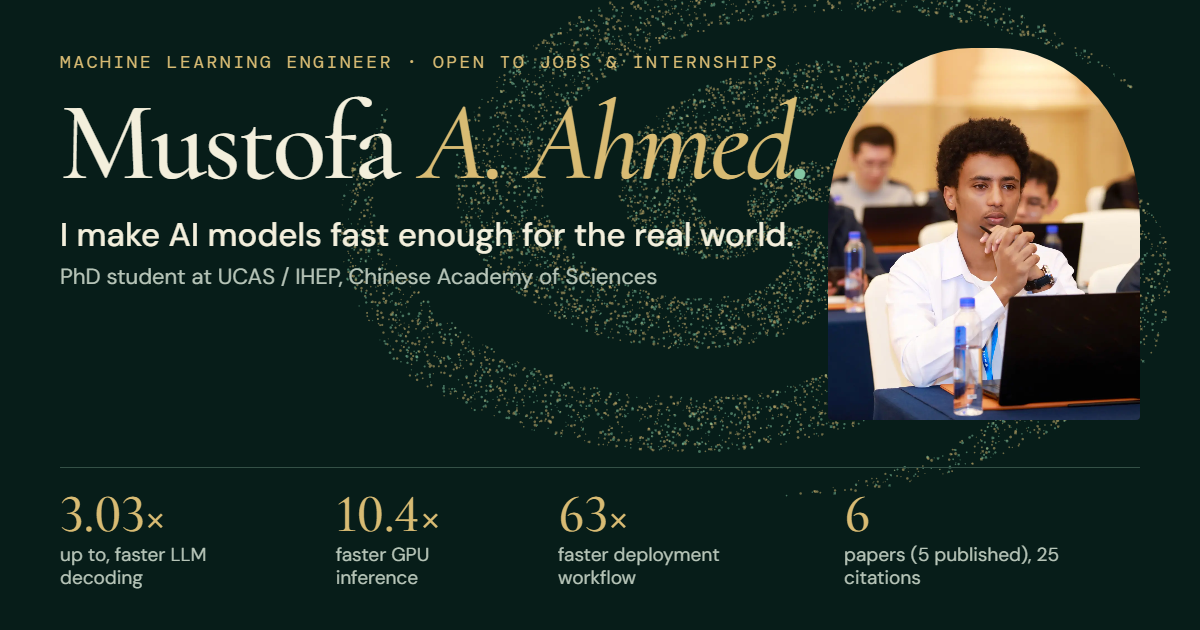
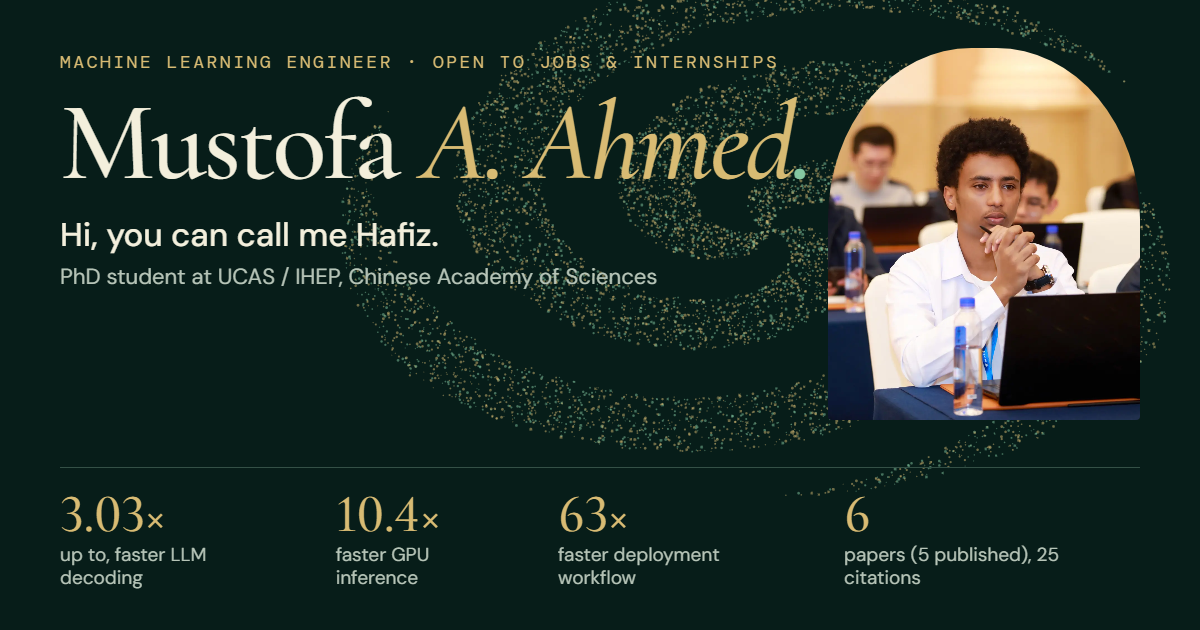
New hero greeting, resume pop-up, chip photos and copy updates
- Hero opens with "Hi, you can call me Hafiz." and a one-line description
- Short manifesto paragraph in the original serif style
- Resume buttons open an in-page viewer (English/Chinese, download, open PDF)
- Show the normal cursor over pop-ups, which sit above the custom cursor
- Intel Xeon and Xilinx Alveo photos in the AutoDeploy lab chip picker and result card
- "02 / Hiring?" label, no HSK score in the languages line
- Share card, loader words and review notes follow the new copy

Changed region(s): [[0.0617, 0.0, 0.925, 0.7238], [0.7092, 0.6635, 0.8942, 0.7841], [0.9558, 0.3619, 0.9867, 0.5127]]

diff --git a/index.html b/index.html
@@ -13,7 +13,7 @@
 <meta property="og:type" content="profile">
 <meta property="og:url" content="https://hafizabc77.github.io/">
 <meta property="og:title" content="Mustofa A. Ahmed (Hafiz): Machine Learning Engineer">
-<meta property="og:description" content="I make AI models fast enough for the real world. Up to 3.03× faster LLM decoding, 10.4× faster GPU inference, a 63× faster deployment workflow and 6 papers (5 published). Open to jobs and internships.">
+<meta property="og:description" content="Hi, you can call me Hafiz. I work on how AI models learn, scale and run fast on real hardware. Up to 3.03× faster LLM decoding, 10.4× faster GPU inference, a 63× faster deployment workflow and 6 papers (5 published). Open to jobs and internships.">
 <meta property="og:image" content="https://hafizabc77.github.io/assets/showcase/og-card.png">
 <meta property="og:image:width" content="1200">
 <meta property="og:image:height" content="630">
@@ -93,12 +93,11 @@ setTimeout(function(){if(!window.__fxReady)c.add('intro-done','fx-slow')},4000)}
       <span class="eyebrow" data-scramble data-en="Machine Learning Engineer" data-zh="机器学习工程师">Machine Learning Engineer</span>
       <span class="opportunity" data-en="Open to jobs &amp; internships" data-zh="求职 · 实习均可">Open to jobs &amp; internships</span>
     </p>
-    <h1 data-split>Mustofa<br><i>A. Ahmed<b>.</b></i></h1>
-    <p class="aka" data-rise data-en="Hi, I’m Hafiz." data-zh="你好，我是 Hafiz。">Hi, I’m Hafiz.</p>
-    <p class="hero-line" data-rise data-en="I make AI models fast enough for the real world." data-zh="让 AI 模型快到能真正落地。">I make AI models fast enough for the real world.</p>
-    <p class="hero-description" data-rise data-en="I’m a PhD student at UCAS and the Institute of High Energy Physics in Beijing. Most days I’m speeding up LLM inference or getting models to run well on GPUs, FPGAs and NPUs." data-zh="我是中国科学院大学与中国科学院高能物理研究所的博士生。平时主要在加速大模型推理，让模型在 GPU、FPGA 和 NPU 上跑得又快又稳。">I’m a PhD student at UCAS and the Institute of High Energy Physics in Beijing. Most days I’m speeding up LLM inference or getting models to run well on GPUs, FPGAs and NPUs.</p>
+    <h1 data-split>Mustofa<br><i>A. Ahmed<b>.</b></i></h1>
+    <p class="hero-line" data-rise data-en="<span class=&quot;hello&quot;>Hi, you can call me <b>Hafiz</b>.</span> I work on how AI models learn, scale and run fast on real hardware." data-zh="<span class=&quot;hello&quot;>你好，叫我 <b>Hafiz</b> 就好。</span>我研究 AI 模型如何学习、如何扩展，以及如何在真实硬件上跑得飞快。"><span class="hello">Hi, you can call me <b>Hafiz</b>.</span> I work on how AI models learn, scale and run fast on real hardware.</p>
+    <p class="hero-description" data-rise data-en="PhD student at UCAS and the Institute of High Energy Physics, Beijing." data-zh="中国科学院大学与中科院高能物理研究所博士生 · 北京">PhD student at UCAS and the Institute of High Energy Physics, Beijing.</p>
     <div class="actions" data-rise>
-      <a class="button primary" data-resume data-magnetic data-cursor="PDF" href="assets/Mustofa-Ahmed-Resume-EN.pdf" target="_blank" rel="noopener"><span data-en="Get my resume ↗" data-zh="查看简历 ↗">Get my resume ↗</span></a>
+      <a class="button primary" data-resume data-magnetic data-cursor="PDF" href="assets/Mustofa-Ahmed-Resume-EN.pdf" target="_blank" rel="noopener"><span data-en="See my resume" data-zh="查看简历">See my resume</span></a>
       <a class="button" href="#projects" data-magnetic><span data-en="Explore my work" data-zh="探索我的项目">Explore my work</span></a>
     </div>
   </div>
@@ -114,10 +113,7 @@ setTimeout(function(){if(!window.__fxReady)c.add('intro-done','fx-slow')},4000)}
 <div class="wave-ticker" id="wave-ticker" aria-hidden="true"><div class="ticker-run"><span>PYTORCH ✦ vLLM ✦ TENSORRT ✦ CUDA ✦ ONNX ✦ llama.cpp ✦ hls4ml ✦ VITIS AI ✦ NEO4J ✦ BAYESIAN OPTIMIZATION ✦ UNREAL ENGINE 5 ✦ PYTORCH ✦ vLLM ✦ TENSORRT ✦ CUDA ✦ ONNX ✦ llama.cpp ✦ hls4ml ✦ VITIS AI ✦ NEO4J ✦ BAYESIAN OPTIMIZATION ✦ UNREAL ENGINE 5 ✦ </span><span>PYTORCH ✦ vLLM ✦ TENSORRT ✦ CUDA ✦ ONNX ✦ llama.cpp ✦ hls4ml ✦ VITIS AI ✦ NEO4J ✦ BAYESIAN OPTIMIZATION ✦ UNREAL ENGINE 5 ✦ PYTORCH ✦ vLLM ✦ TENSORRT ✦ CUDA ✦ ONNX ✦ llama.cpp ✦ hls4ml ✦ VITIS AI ✦ NEO4J ✦ BAYESIAN OPTIMIZATION ✦ UNREAL ENGINE 5 ✦ </span></div></div>
 
 <section class="manifesto" id="manifesto" data-shape="vortex" data-dim=".42">
-  <p class="eyebrow mf-kicker" data-en="What keeps me curious" data-zh="让我着迷的事">What keeps me curious</p>
-  <p class="mf-lead" data-words data-en="From the <i>first gradient</i> to the <i>last millisecond.</i>" data-zh="从<i>第一个梯度</i>，到<i>最后一毫秒。</i>">From the <i>first gradient</i> to the <i>last millisecond.</i></p>
-  <div class="mf-track"><i class="mf-fill" aria-hidden="true"></i><ol class="mf-stages"><li style="--i:0"><span class="mf-n">01</span><span data-en="How models learn" data-zh="模型如何学习">How models learn</span></li><li style="--i:1"><span class="mf-n">02</span><span data-en="Why architectures work" data-zh="架构为何有效">Why architectures work</span></li><li style="--i:2"><span class="mf-n">03</span><span data-en="What scale changes" data-zh="规模改变什么">What scale changes</span></li><li style="--i:3"><span class="mf-n">04</span><span data-en="How fast they run" data-zh="能跑多快">How fast they run</span></li></ol></div>
-  <p class="mf-body" data-words data-en="I want to understand the whole life of a model: how it learns, why its architecture works, what changes as it scales, and how to make it fast on a real chip. Each end explains the other. How a model was trained tells me where it can be trimmed, and the chip it runs on tells me what is worth training." data-zh="我想弄懂一个模型的完整生命：它如何学习，架构为何有效，规模变大时会发生什么，以及怎样让它在真实芯片上跑得飞快。两端总在互相解释：模型怎么训练，决定了它能从哪里精简；它要跑在什么芯片上，又决定了什么值得训练。">I want to understand the whole life of a model: how it learns, why its architecture works, what changes as it scales, and how to make it fast on a real chip. Each end explains the other. How a model was trained tells me where it can be trimmed, and the chip it runs on tells me what is worth training.</p>
+  <p data-words data-en="Some days I’m digging into how models learn and scale. Other days I’m squeezing milliseconds out of a GPU. The best days are when one helps the other." data-zh="有些日子，我在钻研模型如何学习、如何扩展；另一些日子，我在 GPU 上一毫秒一毫秒地抠性能。最好的日子，是两者互相成就的时候。">Some days I’m digging into how models learn and scale. Other days I’m squeezing milliseconds out of a GPU. The best days are when one helps the other.</p>
 </section>
 
 <!-- Scroll story: particles form each result. The numbers are also real text for screen readers and non-WebGL browsers. -->
@@ -156,7 +152,7 @@ setTimeout(function(){if(!window.__fxReady)c.add('intro-done','fx-slow')},4000)}
 </section>
 
 <section class="fit" id="fit" data-rail-en="Your role" data-rail-zh="岗位匹配" data-shape="network" data-dim=".3" data-ink=".6">
-  <p class="eyebrow" data-en="02 / Tailor this page" data-zh="02 / 定制此页面">02 / Tailor this page</p>
+  <p class="eyebrow" data-en="02 / Hiring?" data-zh="02 / 正在招聘？">02 / Hiring?</p>
   <h2 data-split data-en="What are you <i>hiring for?</i>" data-zh="你在招聘<i>什么岗位？</i>">What are you <i>hiring for?</i></h2>
   <p class="fit-note" data-reveal data-en="Pick the role you’re hiring for and I’ll point you to the work that matters most for it." data-zh="选择你正在招聘的岗位，我会为你标出最相关的经历。">Pick the role you’re hiring for and I’ll point you to the work that matters most for it.</p>
   <div class="roles" role="tablist" aria-label="Role" data-reveal>
@@ -174,7 +170,7 @@ setTimeout(function(){if(!window.__fxReady)c.add('intro-done','fx-slow')},4000)}
   <dl class="facts" data-reveal>
     <div><dt data-en="Looking for" data-zh="求职意向">Looking for</dt><dd data-en="AI / ML engineering jobs and internships" data-zh="AI / 机器学习工程方向的工作与实习">AI / ML engineering jobs and internships</dd></div>
     <div><dt data-en="Based in" data-zh="所在地">Based in</dt><dd data-en="Beijing, China" data-zh="中国 · 北京">Beijing, China</dd></div>
-    <div><dt data-en="Languages" data-zh="语言">Languages</dt><dd data-en="English, Amharic, Mandarin (HSK 4, 264/300)" data-zh="英语、阿姆哈拉语、汉语（HSK 四级，264/300）">English, Amharic, Mandarin (HSK 4, 264/300)</dd></div>
+    <div><dt data-en="Languages" data-zh="语言">Languages</dt><dd data-en="English, Amharic, Mandarin" data-zh="英语、阿姆哈拉语、汉语">English, Amharic, Mandarin</dd></div>
   </dl>
 </section>
 
@@ -293,9 +289,9 @@ setTimeout(function(){if(!window.__fxReady)c.add('intro-done','fx-slow')},4000)}
       <div class="lab-step"><span class="lab-n">1</span><div class="lab-field">
         <b data-en="Pick a chip" data-zh="选择芯片">Pick a chip</b>
         <div class="chip-pick" id="dep-targets" role="radiogroup" aria-label="Target hardware">
-          <button type="button" role="radio" aria-checked="false" data-target="cpu"><svg class="chip-ico" viewBox="0 0 40 40" aria-hidden="true"><rect x="9" y="9" width="22" height="22" rx="2"/><rect x="14" y="14" width="12" height="12"/><path d="M14 9V5M20 9V5M26 9V5M14 35v-4M20 35v-4M26 35v-4M9 14H5M9 20H5M9 26H5M35 14h-4M35 20h-4M35 26h-4"/></svg><b>CPU</b><small>Intel Xeon Gold 6248</small></button>
+          <button type="button" role="radio" aria-checked="false" data-target="cpu"><img src="assets/showcase/xeon-6248.webp" alt="" width="340" height="360"><b>CPU</b><small>Intel Xeon Gold 6248</small></button>
           <button type="button" role="radio" aria-checked="true" data-target="gpu"><img src="assets/showcase/v100.webp" alt="" width="420" height="466"><b>GPU</b><small>NVIDIA Tesla V100</small></button>
-          <button type="button" role="radio" aria-checked="false" data-target="fpga"><svg class="chip-ico" viewBox="0 0 40 40" aria-hidden="true"><rect x="7" y="7" width="26" height="26" rx="2"/><path d="M7 15h26M7 22h26M7 29h26M15 7v26M22 7v26M29 7v26"/></svg><b>FPGA</b><small>Xilinx Alveo U200</small></button>
+          <button type="button" role="radio" aria-checked="false" data-target="fpga"><img src="assets/showcase/alveo-u200.webp" alt="" width="239" height="185"><b>FPGA</b><small>Xilinx Alveo U200</small></button>
         </div>
       </div></div>
       <div class="lab-step"><span class="lab-n">2</span><div class="lab-field">
@@ -702,8 +698,8 @@ setTimeout(function(){if(!window.__fxReady)c.add('intro-done','fx-slow')},4000)}
         <li><span class="contact-label">GitHub</span><a href="https://github.com/hafizabc77" target="_blank" rel="noopener">github.com/hafizabc77 ↗</a></li>
       </ul>
       <div class="actions">
-        <a class="button primary" href="assets/Mustofa-Ahmed-Resume-EN.pdf" target="_blank" rel="noopener" data-magnetic data-cursor="PDF"><span data-en="Resume, English ↗" data-zh="英文简历 ↗">Resume, English ↗</span></a>
-        <a class="button" href="assets/Mustofa-Ahmed-Resume-ZH.pdf" target="_blank" rel="noopener" data-magnetic data-cursor="PDF"><span data-en="Resume, Chinese ↗" data-zh="中文简历 ↗">Resume, Chinese ↗</span></a>
+        <a class="button primary" href="assets/Mustofa-Ahmed-Resume-EN.pdf" target="_blank" rel="noopener" data-magnetic data-cursor="PDF"><span data-en="Resume, English" data-zh="英文简历">Resume, English</span></a>
+        <a class="button" href="assets/Mustofa-Ahmed-Resume-ZH.pdf" target="_blank" rel="noopener" data-magnetic data-cursor="PDF"><span data-en="Resume, Chinese" data-zh="中文简历">Resume, Chinese</span></a>
       </div>
     </div>
     <button type="button" class="qr-card" id="qr-card" data-tilt data-cursor="ENLARGE" aria-label="Enlarge WeChat QR code">
@@ -1060,6 +1056,16 @@ setTimeout(function(){if(!window.__fxReady)c.add('intro-done','fx-slow')},4000)}
   </article>
 </template>
 
+<dialog id="resume-dialog" aria-label="Resume">
+  <div class="rd-bar">
+    <b data-en="Resume" data-zh="简历">Resume</b>
+    <div class="seg small rd-lang" role="radiogroup" aria-label="Language"><button type="button" role="radio" aria-checked="true" data-rlang="en">English</button><button type="button" role="radio" aria-checked="false" data-rlang="zh">中文</button></div>
+    <a class="button small primary rd-download" href="assets/Mustofa-Ahmed-Resume-EN.pdf" download="Mustofa-Ahmed-Resume-EN.pdf"><span data-en="Download PDF" data-zh="下载 PDF">Download PDF</span></a>
+    <a class="text-link rd-open" href="assets/Mustofa-Ahmed-Resume-EN.pdf" target="_blank" rel="noopener"><span data-en="Open PDF ↗" data-zh="打开 PDF ↗">Open PDF ↗</span></a>
+  </div>
+  <button type="button" class="dialog-close" aria-label="Close">×</button>
+  <div class="rd-scroll"><img class="rd-page" alt="Resume of Mustofa A. Ahmed (Hafiz)" width="1700" height="2200" data-src-en="assets/resume/resume-en-1.webp" data-src-zh="assets/resume/resume-zh-1.webp"></div>
+</dialog>
 <dialog id="wechat-dialog" aria-label="WeChat">
   <button type="button" class="dialog-close" aria-label="Close">×</button>
   <span class="qr-frame"><img src="assets/showcase/wechat-qr.webp" width="543" height="544" alt="WeChat QR code for hafizabc77" loading="lazy"><i class="qr-scan" aria-hidden="true"></i></span>

diff --git a/styles.css b/styles.css
@@ -55,6 +55,10 @@ h3{font-size:clamp(20px,1.6vw,25px);font-weight:500;line-height:1.3}
 .has-cursor .cursor,.has-cursor .cursor-dot{opacity:1}
 .has-cursor,.has-cursor a,.has-cursor button,.has-cursor summary,.has-cursor input,.has-cursor canvas,.has-cursor video,.has-cursor img{cursor:none}
 .has-cursor #palette-input{cursor:text}
+/* Pop-ups sit in the browser top layer, above the custom cursor, so show the normal cursor while one is open */
+.has-cursor.dialog-open,.has-cursor.dialog-open *{cursor:auto}
+.has-cursor.dialog-open a,.has-cursor.dialog-open button,.has-cursor.dialog-open summary,.has-cursor.dialog-open [data-copy]{cursor:pointer}
+.dialog-open .cursor,.dialog-open .cursor-dot{opacity:0!important}
 .cursor{width:38px;height:38px;margin:-19px 0 0 -19px;border:1px solid var(--gold);border-radius:50%;display:grid;place-items:center;transition:width .35s var(--ease),height .35s var(--ease),margin .35s var(--ease),background .25s,border-color .25s}
 .cursor-label{font:400 10px/1 var(--mono);letter-spacing:.1em;color:var(--bg);opacity:0;transition:opacity .15s}
 .cursor-dot{width:5px;height:5px;margin:-2.5px 0 0 -2.5px;border-radius:50%;background:var(--gold)}
@@ -163,8 +167,7 @@ img.gl-on{opacity:0}
 @keyframes pulse{0%{box-shadow:0 0 0 0 rgb(132 199 162 / .6)}70%,100%{box-shadow:0 0 0 9px rgb(132 199 162 / 0)}}
 h1{font:500 clamp(68px,min(11vw,20vh),210px)/.9 var(--serif);letter-spacing:-.035em;text-shadow:0 2px 40px rgb(7 29 25 / .35)}
 h1 b{color:var(--mint);font-weight:500}
-.aka{margin-top:clamp(10px,1.5vh,20px);font-size:clamp(14px,1vw,16px);color:var(--ink);opacity:.85}
-.hero-line{margin-top:clamp(8px,1.2vh,16px);color:var(--ink);font-size:clamp(21px,2vw,32px);line-height:1.22;font-weight:500;max-width:22em}
+.hero-line{text-wrap:balance;margin-top:clamp(14px,2vh,26px);color:var(--ink);font-size:clamp(21px,2vw,32px);line-height:1.22;font-weight:500;max-width:22em}
 .hero-description{margin-top:8px;max-width:34em;font-size:clamp(15px,1.05vw,17px);line-height:1.5;color:var(--ink);opacity:.8}
 .hero .actions{margin-top:clamp(12px,2vh,26px)}
 .hero-stats{display:grid;grid-template-columns:repeat(4,auto) minmax(0,1fr);gap:10px clamp(18px,3vw,54px);align-items:end;margin-top:clamp(12px,2vh,28px);padding-top:clamp(10px,1.4vh,18px);border-top:1px solid rgb(243 239 220 / .2)}
@@ -181,25 +184,12 @@ h1 b{color:var(--mint);font-weight:500}
 .ticker-run span{font:400 clamp(13px,1.2vw,19px)/1 var(--mono);letter-spacing:.18em;color:var(--gold);white-space:nowrap;opacity:.8}
 @keyframes tickerRun{to{transform:translate3d(-50%,0,0)}}
 
-/* Manifesto: the whole life of a model, from the first gradient to the last millisecond */
-.manifesto{--p:1;padding-block:clamp(70px,12vw,170px)}
-.fx .manifesto{--p:0}
-.mf-kicker{margin-bottom:clamp(14px,2vw,26px)}
-.manifesto .mf-lead{font:400 clamp(46px,7.6vw,132px)/.98 var(--serif);letter-spacing:-.035em;color:var(--ink);max-width:12em}
-.mf-lead i{font-style:italic;color:var(--gold)}
-.mf-track{position:relative;margin:clamp(34px,5vw,72px) 0 clamp(30px,4.4vw,60px);padding-top:30px}
-.mf-track:before{content:'';position:absolute;left:0;right:0;top:5px;border-top:1px solid var(--line)}
-.mf-fill{position:absolute;left:0;right:0;top:4px;height:3px;border-radius:2px;background:linear-gradient(90deg,var(--mint),var(--gold));transform:scaleX(var(--p));transform-origin:left}
-.mf-stages{display:grid;grid-template-columns:repeat(4,minmax(0,1fr));gap:18px}
-.mf-stages li{--on:clamp(0,(var(--p) * 4 - var(--i)) * 2.2,1);position:relative;display:grid;gap:6px;opacity:calc(.32 + var(--on) * .68);font:400 clamp(15px,1.4vw,21px)/1.25 var(--sans);color:var(--ink)}
-.mf-stages li:before,.mf-stages li:after{content:'';position:absolute;left:0;top:-30px;width:11px;height:11px;border-radius:50%}
-.mf-stages li:before{border:1px solid var(--gold);background:var(--bg)}
-.mf-stages li:after{background:var(--gold);box-shadow:0 0 0 5px rgb(216 187 115 / .16);opacity:var(--on);transform:scale(calc(.4 + var(--on) * .6))}
-.mf-n{font:400 11px/1 var(--mono);letter-spacing:.14em;color:var(--gold)}
-.manifesto .mf-body{font:400 clamp(20px,2.1vw,34px)/1.45 var(--sans);letter-spacing:-.012em;color:var(--ink);max-width:33em}
-[lang=zh-CN] .manifesto .mf-lead{font-size:clamp(40px,6.2vw,104px);line-height:1.18;letter-spacing:.01em}
-[lang=zh-CN] .mf-lead i{font-style:normal}
-[lang=zh-CN] .manifesto .mf-body{font-size:clamp(18px,1.85vw,30px);line-height:1.75;letter-spacing:.02em}
+.hero-line .hello{display:block;margin-bottom:.12em}
+.hero-line b{font-weight:500;color:var(--gold)}
+/* Manifesto */
+.manifesto{padding-block:clamp(70px,13vw,190px)}
+.manifesto p{font:500 clamp(32px,5.1vw,84px)/1.12 var(--serif);letter-spacing:-.02em;color:var(--ink);max-width:21em}
+[lang=zh-CN] .manifesto p{font-family:var(--sans);font-size:clamp(26px,3.8vw,60px);line-height:1.45;font-weight:500;letter-spacing:.01em}
 
 /* Results story */
 .numbers{padding:0;height:calc(100vh * 4.4)}
@@ -821,7 +811,6 @@ img.agent-avatar{width:34px;height:34px;border-radius:50%;background:#fff;object
 /* Short laptop screens: scale the hero by height so the results stay in the first screen. */
 @media(min-width:761px) and (max-height:820px){
   .hero{padding-top:clamp(62px,9vh,80px);padding-bottom:12px}
-  .aka{margin-top:6px;font-size:13px}
   .hero-line{margin-top:4px;font-size:clamp(19px,3vh,26px)}
   .hero-description{margin-top:3px;font-size:14px}
   .button{min-height:42px;padding-block:7px}
@@ -889,7 +878,6 @@ img.agent-avatar{width:34px;height:34px;border-radius:50%;background:#fff;object
   .hero-copy{display:contents}
   .hero-tags{order:1}
   .hero h1{order:2}
-  .aka{order:3}
   .hero-media{order:4}
   .hero-line{order:5}
   .hero-description{order:6}
@@ -902,7 +890,6 @@ img.agent-avatar{width:34px;height:34px;border-radius:50%;background:#fff;object
   .hero-tags .eyebrow{font-size:11px;letter-spacing:.1em}
   .opportunity{font-size:12px;padding:3px 11px}
   h1{font-size:clamp(50px,15vw,88px)}
-  .aka{font-size:13px;margin-top:8px}
   .hero-line{font-size:21px;margin-top:6px}
   .hero-description{font-size:14.5px;line-height:1.45;margin-top:5px}
   .hero-copy .actions{display:none}
@@ -1159,13 +1146,29 @@ img.agent-avatar{width:34px;height:34px;border-radius:50%;background:#fff;object
   .chip-pick small,.lab-field .chip-pick small{display:none}
 }
 
+
+/* Chip photo in the lab result card */
+.dep-pick{position:relative;padding-right:clamp(100px,9vw,128px)}
+.pick-chip{position:absolute;right:14px;top:50%;width:clamp(72px,7vw,100px);height:clamp(72px,7vw,100px);object-fit:contain;transform:translateY(-50%);filter:drop-shadow(0 10px 16px rgb(0 0 0 / .5))}
+.chip-pick img{filter:drop-shadow(0 3px 5px rgb(0 0 0 / .45))}
+/* Resume viewer */
+#resume-dialog{width:min(94vw,900px);height:94vh;max-height:1200px;max-width:none;padding:0;overflow:hidden;background:var(--panel)}
+#resume-dialog[open]{display:flex;flex-direction:column;animation:popIn .45s var(--spring)}
+.rd-bar{display:flex;flex-wrap:wrap;align-items:center;gap:10px 16px;padding:12px 64px 12px 20px;border-bottom:1px solid var(--line)}
+.rd-bar>b{margin-right:auto;font:500 24px/1 var(--serif);color:var(--ink)}
+.rd-lang button{font-family:var(--sans)}
+.rd-open{font-size:14px}
+#resume-dialog .dialog-close{top:7px;right:10px;color:var(--ink)}
+.rd-scroll{flex:1;min-height:0;overflow:auto;padding:clamp(10px,2.4vw,28px);background:#0a231e;overscroll-behavior:contain}
+.rd-page{display:block;width:100%;max-width:820px;height:auto;aspect-ratio:1700/2200;margin:0 auto;border-radius:4px;background:#fff;box-shadow:0 18px 50px rgb(0 0 0 / .45)}
 @media(max-width:760px){
-  .mf-track{padding:0 0 0 30px}
-  .mf-track:before{left:5px;right:auto;top:0;bottom:0;border-top:0;border-left:1px solid var(--line)}
-  .mf-fill{left:4px;right:auto;top:0;bottom:0;width:3px;height:auto;background:linear-gradient(180deg,var(--mint),var(--gold));transform:scaleY(var(--p));transform-origin:top}
-  .mf-stages{grid-template-columns:minmax(0,1fr);gap:16px}
-  .mf-stages li{grid-template-columns:30px minmax(0,1fr);align-items:baseline}
-  .mf-stages li:before,.mf-stages li:after{left:-30px;top:5px}
+  #resume-dialog{inset:0;width:100%;height:100%;max-height:none;margin:0;border:0;border-radius:0}
+  .rd-bar{gap:8px 10px;padding:10px 56px 10px 14px}
+  .rd-bar>b{font-size:19px}
+  .rd-bar .button{min-height:36px;padding:6px 14px;font-size:14px}
+  .rd-scroll{padding:8px}
+  .dep-pick{padding-right:84px}
+  .pick-chip{right:10px;width:62px;height:62px}
 }
 
 /* Motion turned off, or the script failed: everything is a plain, readable page. */

diff --git a/script.js b/script.js
@@ -254,7 +254,7 @@
     const num = $('#loader-num'), label = $('#loader-text'), tokens = $$('.loader-tokens i', loader), stream = $('#loader-stream');
     const zh = currentLang() === 'zh';
     const phases = zh ? ['正在加载权重', '正在预热 GPU', '准备就绪'] : ['Loading weights', 'Warming up GPU', 'Ready'];
-    const words = zh ? ['让', 'AI 模型', '快到', '能真正', '落地。'] : ['AI models,', 'fast', 'enough for', 'the real', 'world.'];
+    const words = zh ? ['你好，', '叫我', 'Hafiz', '就', '好。'] : ['Hi,', 'you can', 'call me', 'Hafiz', '.'];
     let shown = 0;
     label.textContent = phases[0];
     const start = performance.now(), duration = 1250;
@@ -453,18 +453,6 @@
         });
       });
     });
-
-    // The manifesto's track fills from "first gradient" to "last millisecond" as you scroll.
-    const manifesto = $('.manifesto'), mLead = $('.mf-lead');
-    if (manifesto && mLead) {
-      let mTop = 0, mHeight = 1, mLast = -1;
-      measureTasks.push(() => { mTop = docTop(mLead); mHeight = mLead.offsetHeight; });
-      frameTasks.push(() => {
-        // Same pace as the headline's words, finishing just after "last millisecond" lights up.
-        const p = clamp((state.smoothY + state.vh * 0.84 - mTop) / (mHeight + state.vh * 0.46) * 0.94);
-        if (Math.abs(p - mLast) > 0.002) { mLast = p; manifesto.style.setProperty('--p', p.toFixed(3)); }
-      });
-    }
 
     const timeline = $('.timeline'), line = $('.timeline-line');
     if (timeline) {
@@ -1137,6 +1125,7 @@
   }
   function openDialog(dialog) {
     if (dialog.showModal) dialog.showModal(); else dialog.setAttribute('open', '');
+    root.classList.add('dialog-open');
     if (lenis) lenis.stop();
   }
   function wireEnlarge(scope) {
@@ -1163,12 +1152,38 @@
       const close = $('.dialog-close', dialog);
       if (close) close.addEventListener('click', () => (dialog.close ? dialog.close() : dialog.removeAttribute('open')));
       dialog.addEventListener('click', event => { if (event.target === dialog && dialog.close) dialog.close(); });
-      dialog.addEventListener('close', () => { if (lenis && !caseOpen) lenis.start(); });
+      dialog.addEventListener('close', () => {
+        if (lenis && !caseOpen) lenis.start();
+        if (!document.querySelector('dialog[open]')) root.classList.remove('dialog-open');
+      });
     });
     const wechat = $('#wechat-dialog');
     [$('#wechat-open'), $('#qr-card')].forEach(opener => {
       if (wechat && opener) opener.addEventListener('click', () => openDialog(wechat));
     });
+    // Resume links open a pop-up viewer on the page; Ctrl/Cmd/middle click still opens the PDF in a new tab.
+    const resume = $('#resume-dialog');
+    if (resume) {
+      const page = $('.rd-page', resume), download = $('.rd-download', resume), openPdf = $('.rd-open', resume), langs = $$('[data-rlang]', resume);
+      const show = lang => {
+        const code = lang === 'zh' ? 'ZH' : 'EN', file = `assets/Mustofa-Ahmed-Resume-${code}.pdf`;
+        langs.forEach(b => b.setAttribute('aria-checked', String(b.dataset.rlang === lang)));
+        page.src = page.dataset[code === 'ZH' ? 'srcZh' : 'srcEn'];
+        page.alt = code === 'ZH' ? 'Mustofa A. Ahmed (Hafiz) 的中文简历' : 'Resume of Mustofa A. Ahmed (Hafiz)';
+        download.href = file; download.setAttribute('download', `Mustofa-Ahmed-Resume-${code}.pdf`); openPdf.href = file;
+        $('.rd-scroll', resume).scrollTop = 0;
+      };
+      langs.forEach(b => b.addEventListener('click', () => show(b.dataset.rlang)));
+      window.__openResume = lang => { show(lang === 'zh' || lang === 'en' ? lang : currentLang()); openDialog(resume); };
+      document.addEventListener('click', event => {
+        const link = event.target.closest && event.target.closest('a[href*="Mustofa-Ahmed-Resume-"]');
+        if (!link || resume.contains(link) || event.button !== 0 || event.metaKey || event.ctrlKey || event.shiftKey || event.altKey) return;
+        event.preventDefault();
+        const nav = $('#nav');
+        if (nav && nav.contains(link) && nav.classList.contains('open') && $('#menu')) $('#menu').click();
+        window.__openResume(/-ZH\.pdf$/i.test(link.getAttribute('href')) ? 'zh' : 'en');
+      });
+    }
     wireEnlarge(document);
   }
 
@@ -1367,8 +1382,8 @@
     const jump = id => () => { dialog.close(); goTo(document.getElementById(id)); };
     const study = id => () => { dialog.close(); if (window.__openCase) window.__openCase(id); };
     const COMMANDS = [
-      ['Open resume (English)', '查看英文简历', 'PDF', () => { dialog.close(); window.open('assets/Mustofa-Ahmed-Resume-EN.pdf', '_blank', 'noopener'); }],
-      ['Open resume (Chinese)', '查看中文简历', 'PDF', () => { dialog.close(); window.open('assets/Mustofa-Ahmed-Resume-ZH.pdf', '_blank', 'noopener'); }],
+      ['Open resume (English)', '查看英文简历', 'PDF', () => { dialog.close(); window.__openResume('en'); }],
+      ['Open resume (Chinese)', '查看中文简历', 'PDF', () => { dialog.close(); window.__openResume('zh'); }],
       ['Copy email', '复制邮箱', 'COPY', () => { dialog.close(); copyText('hafizabc77@gmail.com'); }],
       ['Copy WeChat ID', '复制微信号', 'COPY', () => { dialog.close(); copyText('hafizabc77'); }],
       ['Go to AutoDeploy, my flagship project', '前往旗舰项目 AutoDeploy', 'GO', jump('autodeploy')],

diff --git a/labs.js b/labs.js
@@ -437,18 +437,18 @@
      ========================================================================== */
   // Rows: [label EN, label ZH, detail, latency, accuracy %, watts, AutoDeploy's own tuned setup]
   const LAB_DATA = {
-    cpu: { name: ['Intel Xeon Gold 6248', 'Intel Xeon Gold 6248'], unit: 'ms', est: false, base: 0, baseName: ['PyTorch on one thread', 'PyTorch 单线程'], rows: [
+    cpu: { name: ['Intel Xeon Gold 6248', 'Intel Xeon Gold 6248'], img: 'assets/showcase/xeon-6248.webp', unit: 'ms', est: false, base: 0, baseName: ['PyTorch on one thread', 'PyTorch 单线程'], rows: [
       ['PyTorch, one thread', 'PyTorch，单线程', 'FP32, as trained', 45.2, 94.0, 85],
       ['PyTorch, 20 threads', 'PyTorch，20 线程', 'FP32', 12.8, 94.0, 150],
       ['ONNX Runtime, tuned by AutoDeploy', 'ONNX Runtime，AutoDeploy 调优', 'fused graph, 20 threads', 8.6, 94.0, 145, true]
     ], fail: null, steps: ['s1_export', 's2_ort_session'] },
-    gpu: { name: ['NVIDIA Tesla V100', 'NVIDIA Tesla V100'], unit: 'ms', est: false, base: 0, baseName: ['the model as trained', '原始模型'], rows: [
+    gpu: { name: ['NVIDIA Tesla V100', 'NVIDIA Tesla V100'], img: 'assets/showcase/v100.webp', unit: 'ms', est: false, base: 0, baseName: ['the model as trained', '原始模型'], rows: [
       ['PyTorch, as trained', 'PyTorch，原始模型', 'FP32', 3.8, 94.0, 220],
       ['TensorRT, half precision', 'TensorRT，半精度', 'FP16', 0.82, 93.7, 200],
       ['TensorRT, 8-bit', 'TensorRT，8 位', 'INT8 post-training quantization', 0.51, 93.4, 190],
       ['AutoDeploy’s tuned setup', 'AutoDeploy 调优方案', 'FP16, searched kernels and workspace', 0.45, 93.5, 180, true]
     ], fail: ['s2_quant', 'calibration_overflow', 'ROLLBACK ckpt#0, safer calibration preset'], steps: ['s1_export', 's2_quant', 's3_compile'] },
-    fpga: { name: ['Xilinx Alveo U200', 'Xilinx Alveo U200'], unit: 'µs', est: true, base: 3, baseName: ['my best hand-tuned design', '我手工调出的最佳设计'], rows: [
+    fpga: { name: ['Xilinx Alveo U200', 'Xilinx Alveo U200'], img: 'assets/showcase/alveo-u200.webp', unit: 'µs', est: true, base: 3, baseName: ['my best hand-tuned design', '我手工调出的最佳设计'], rows: [
       ['hls4ml, 16-bit fixed point', 'hls4ml，16 位定点', 'ap_fixed<16,6>', 92, 93.0, 42],
       ['hls4ml, 8-bit fixed point', 'hls4ml，8 位定点', 'ap_fixed<8,4>', 68, 91.6, 38],
       ['Vitis AI, 8-bit', 'Vitis AI，8 位', 'INT8', 85, 92.3, 41],
@@ -549,12 +549,13 @@
     };
     const describe = () => {
       const d = LAB_DATA[target], sel = choose(), base = d.rows[d.base];
-      if (!sel) { pick.innerHTML = `<small>${esc(T('picksOn', { chip: d.name[L()] }))}</small><b class="bad">${T('none')}</b><span>${T('noneWhy')}</span>`; return; }
+      const chip = `<img class="pick-chip" src="${d.img}" alt="">`;
+      if (!sel) { pick.innerHTML = chip + `<small>${esc(T('picksOn', { chip: d.name[L()] }))}</small><b class="bad">${T('none')}</b><span>${T('noneWhy')}</span>`; return; }
       const lat = fmt(sel[3], d) + (d.est ? '*' : '');
       const acc = sel[4].toFixed(1);
       const baseName = d.baseName[L()];
       const line = sel === base ? T('only', { lat, acc }) : T('summary', { lat, acc, x: (base[3] / sel[3]).toFixed(1), base: baseName });
-      pick.innerHTML = `<small>${esc(T('picksOn', { chip: d.name[L()] }))}</small><b>${esc(sel[L()])}</b><span>${esc(line)}</span>${d.est ? `<em>* ${T('est')}</em>` : ''}`;
+      pick.innerHTML = chip + `<small>${esc(T('picksOn', { chip: d.name[L()] }))}</small><b>${esc(sel[L()])}</b><span>${esc(line)}</span>${d.est ? `<em>* ${T('est')}</em>` : ''}`;
     };
     const render = animate => {
       const d = LAB_DATA[target], sel = choose(), base = d.rows[d.base];

diff --git a/REVIEW.md b/REVIEW.md
@@ -4,7 +4,7 @@ Direction: the original deep green and gold, rebuilt as a motion-led portfolio w
 
 Sources: the job-fair resume (November 2026), the master's thesis and defense slides (June 2026), project slides, the published abstract of the LHAASO paper and a Google Scholar screenshot (November 2026). Publication titles, DOIs and author order were checked against Crossref, and the publishing name against the public ORCID record.
 
-Name: the resume uses Mustofa A. Ahmed. Papers and ORCID use Abdulhafiz Ahmed Mustofa. The hero now just says "Hi, I’m Hafiz." and the publishing name sits under the Publications heading, so either name can still be searched.
+Name: the resume uses Mustofa A. Ahmed. Papers and ORCID use Abdulhafiz Ahmed Mustofa. The hero shows the resume name and the line under it opens with "Hi, you can call me Hafiz." The publishing name sits under the Publications heading, so every name can still be searched.
 
 Copy: the hero, manifesto, section headings and leads were rewritten in a plainer first-person voice at the owner's request, to remove lines that read as machine-written or boastful.
 
@@ -31,6 +31,10 @@ Curiosity: the owner's personal AI project, based on the owner's own description
 Assistant logos: Qwen, llama.cpp and Ollama logos were supplied by the owner and recoloured to the site palette for a "built with" row. The Hermes avatar and the V100 card image were also supplied by the owner. The page states that Qwen3.8-27B runs on an NVIDIA V100, as the owner described.
 
 Unreal stills: the canyon and arena stills were supplied by the owner as captures from their Unreal Engine work. The arena uses Epic's standard UE5 mannequins. If any still is Epic's own demo footage rather than the owner's capture, it should be removed.
+
+Chip photos: the Intel Xeon Gold 6248 and Xilinx Alveo U200 product photos in the AutoDeploy lab were supplied by the owner (the Xeon with its background removed), next to the owner's V100 photo. They identify the hardware the thesis measured on.
+
+Resume viewer: resume buttons open a pop-up showing `assets/resume/resume-en-1.webp` and `resume-zh-1.webp`, which are renders of the two resume PDFs, with Download and Open PDF links. If a resume PDF changes, render its page again (for example with PyMuPDF at 1700 px wide) or the pop-up will show the old version. Ctrl/Cmd or middle click still opens the PDF in a new tab, and without JavaScript the links open the PDF directly.
 
 Ad blockers: class names, ids and file names must not start with `ad-` or contain words such as banner, sponsor or promo. Ad-blocker extensions (uBlock Origin, AdBlock, AdGuard) hide elements named like that, which once left the AutoDeploy story and half of the lab blank in Chrome. AutoDeploy elements use the `dep-` prefix and its figures the `deploy-` prefix.
 
